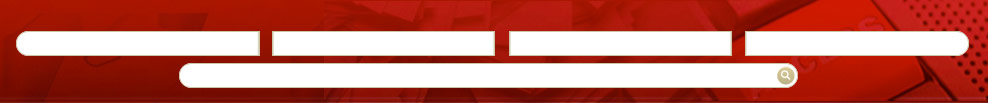
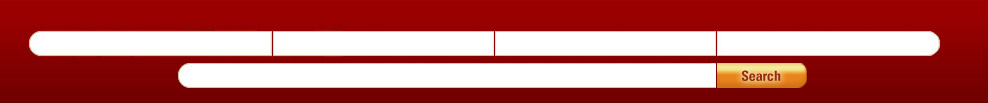
https://irt-bugs.stanford.edu/default.asp?47779
git-svn-id: https://irt-svn.stanford.edu/repos/irt/lane/laneweb/trunk@83285 c440208b-5602-0410-a095-92527a996296

diff --git a/src/main/webapp/resources/css/search-form.css b/src/main/webapp/resources/css/search-form.css
@@ -20,7 +20,7 @@
 }
 #picoFields {
     display:none;
-    left:27px;
+    left:37px;
     position:absolute;
     z-index:1;
     top:108px;
@@ -43,26 +43,36 @@
 /* webkit: remove border from active inputs */
     outline-style:none;
 }
-.yui3-js-enabled .clinical #searchTerms, .yui3-js-enabled .clinical #searchSubmit{
+.yui3-js-enabled .clinical #searchTerms{
     margin-left:160px;
     margin-top:34px;
+    width: 510px;
+}
+.yui3-js-enabled .clinical #searchSubmit{
+    margin-left:97px;
+    margin-top:33px;
 }
 .yui3-js-enabled .clinical #searchReset {
-    margin-left:157px;
+    margin-left:97px;
     margin-top:32px;
 }
 #searchSubmit {
     position:absolute;
-    top:27px;
+    top:25px;
     left:593px;
     background-color:transparent;
     border:medium none;
     cursor:pointer;
-    text-indent:20px;
-    width:20px;
-    height:20px;
+    text-indent:-1000px;
+    font-size: 0;
+    width:90px;
+    height:25px;
     border:none;
     padding-left:20px;
+}
+#searchSubmit:hover {
+    background-image: url(/././resources/images/search-button-on.png);
+    border-bottom: none;
 }
 #searchReset {
     display:none;
@@ -81,7 +91,7 @@
     display:none;
     position:absolute;
     top:0px;
-    left:390px;
+    left:280px;
     z-index:1;
 }
 #searchTips {
@@ -89,23 +99,29 @@
     top:3px;
     left:155px;
     color:white;
-    border-bottom:none;
-    text-decoration:underline;
     white-space:nowrap;
+    font-size:90%;
+}
+#searchTips a {
+    color:white;
+    border-bottom:1px dotted #fff;
+}
+#searchTips a:hover {
+    border-bottom:1px solid #fff;
 }
 #clinicalP {
     left:0px;
-    width:230px;
+    width:233px;
 }
 #clinicalI {
-    left:246px;
-    width:219px;
+    left:240px;
+    width:215px;
 }
 #clinicalC {
-    left:483px;
-    width:219px;
+    left:462px;
+    width:215px;
 }
 #clinicalO {
-    left:720px;
-    width:212px;
+    left:683px;
+    width:210px;
 }

diff --git a/src/main/webapp/resources/javascript/lane-search.js b/src/main/webapp/resources/javascript/lane-search.js
@@ -5,7 +5,7 @@
     LANE.Search = function() {
         var searchSourceSelect = form.one('#searchSource'),
             searchOptions = searchSourceSelect.all('option'),
-            searchTipsLink = Y.one('#searchTips'),
+            searchTipsLink = Y.one('#searchTips a'),
             selectedOption = searchOptions.item(searchSourceSelect.get('selectedIndex')),
             searchIndicator = new LANE.SearchIndicator(),
             searchTextInput = new LANE.TextInput(form.one('#searchTerms')),

diff --git a/src/main/webapp/resources/css/header.css b/src/main/webapp/resources/css/header.css
@@ -69,3 +69,14 @@ h1 a:visited {
 #libraryContact li:first-child {
     border-left:none;
 }
+li#chatHours {
+    background-image:url(/././resources/images/chat-top-off.png);
+    background-position:5px 0;
+    background-repeat: no-repeat;
+}
+li#chatHours:hover {
+    background-image:url(/././resources/images/chat-top-on.png);
+}
+#chatHours a {
+    margin-left:25px;
+}
